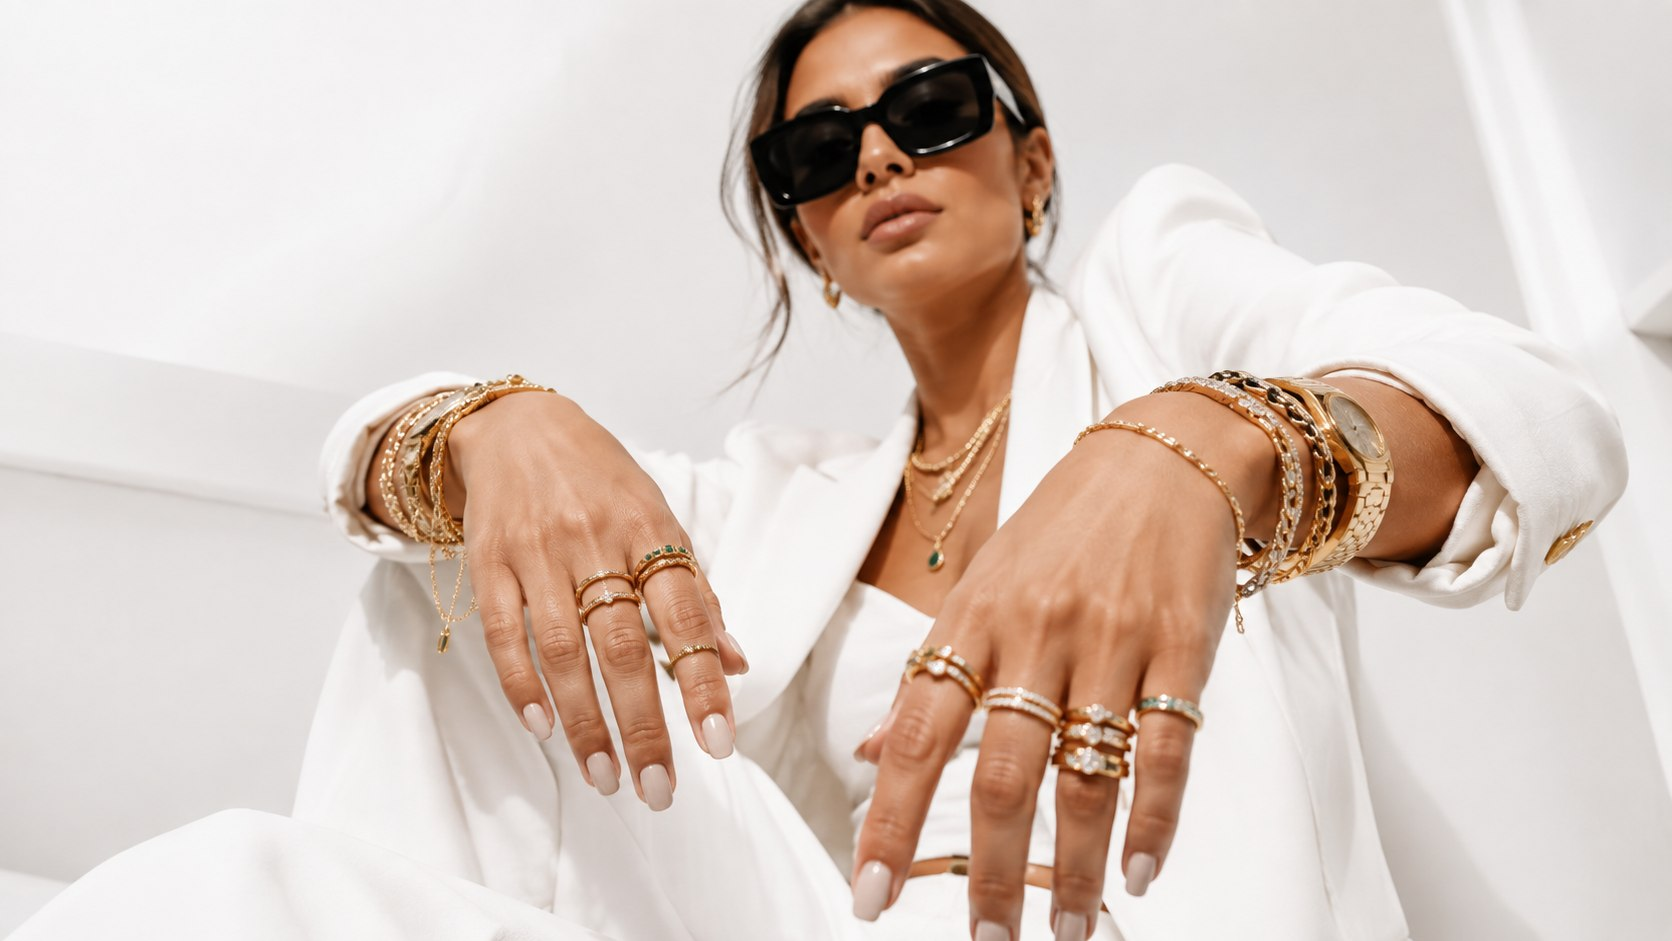
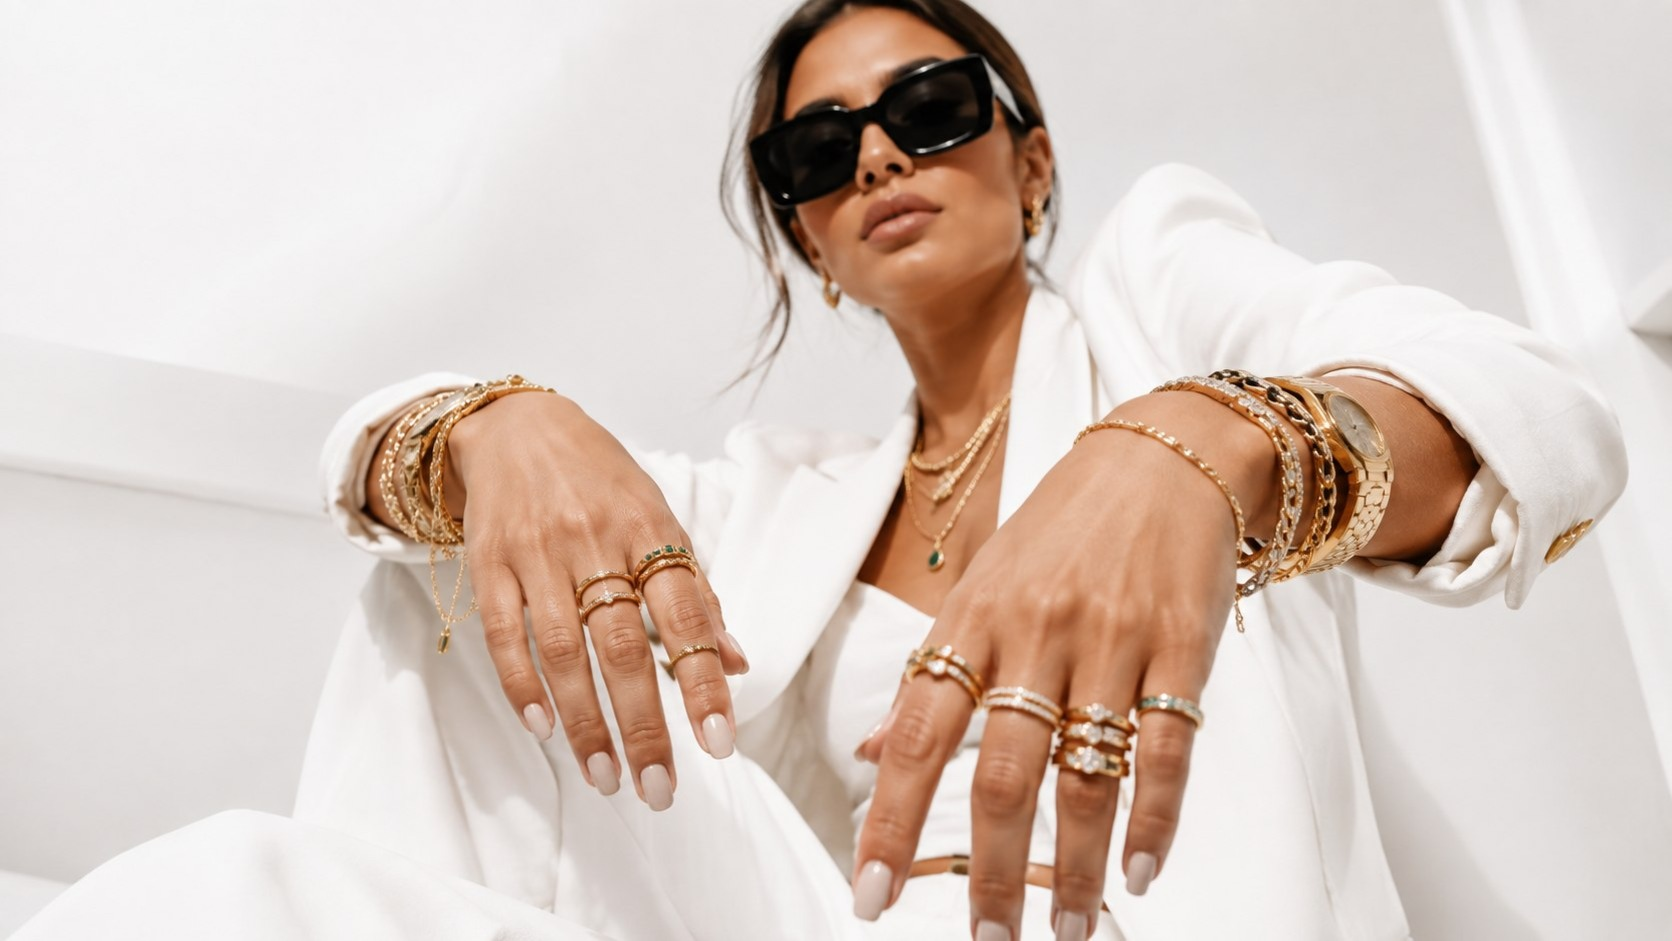
Increase desktop hero height and precisely align the two hero photos
Desktop hero image max-height goes from 64vh to 74vh for a taller, more immersive crop. Used ORB feature matching (on stable regions like the face and background) to compute the exact affine offset between the two hero shots and re-warped the accessories photo so it's pixel-registered with the base photo, removing any residual framing drift between the two.

diff --git a/css/style.css b/css/style.css
@@ -278,7 +278,7 @@ body.has-hero .logo-wordmark { transition: opacity .35s ease; }
   --mo: 0;
   transition: --mr .8s cubic-bezier(.22,.61,.36,1), --mo .8s cubic-bezier(.22,.61,.36,1);
 }
-.hero-media img { width: 100%; height: auto; max-height: 64vh; object-fit: cover; object-position: center 82%; display: block; }
+.hero-media img { width: 100%; height: auto; max-height: 74vh; object-fit: cover; object-position: center 82%; display: block; }
 .hero-media img:not(.hero-img-hover) { position: relative; z-index: 0; }
 .hero-media .hero-img-hover {
   position: absolute;
